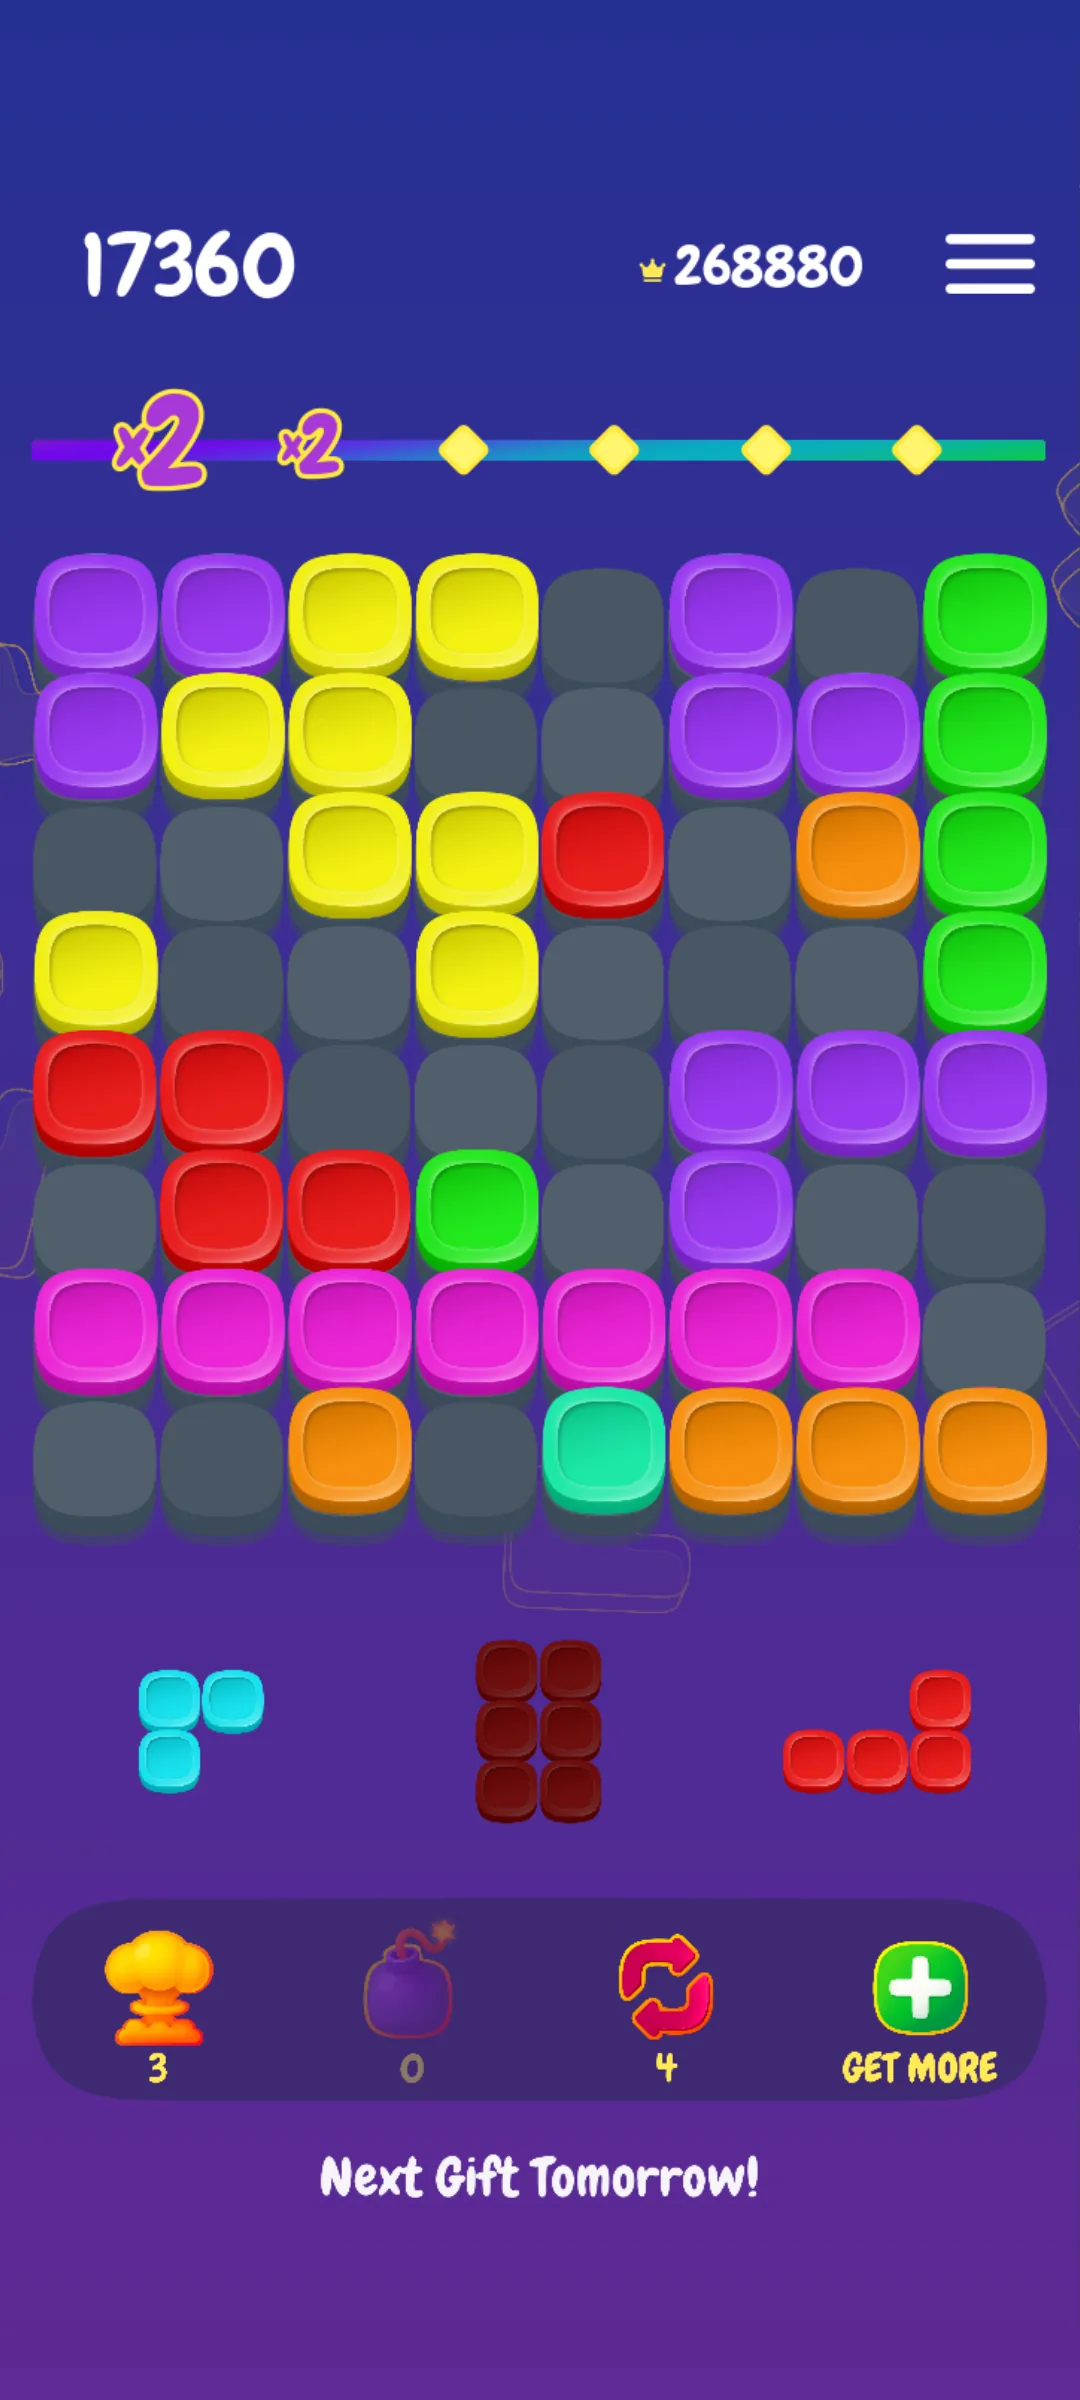
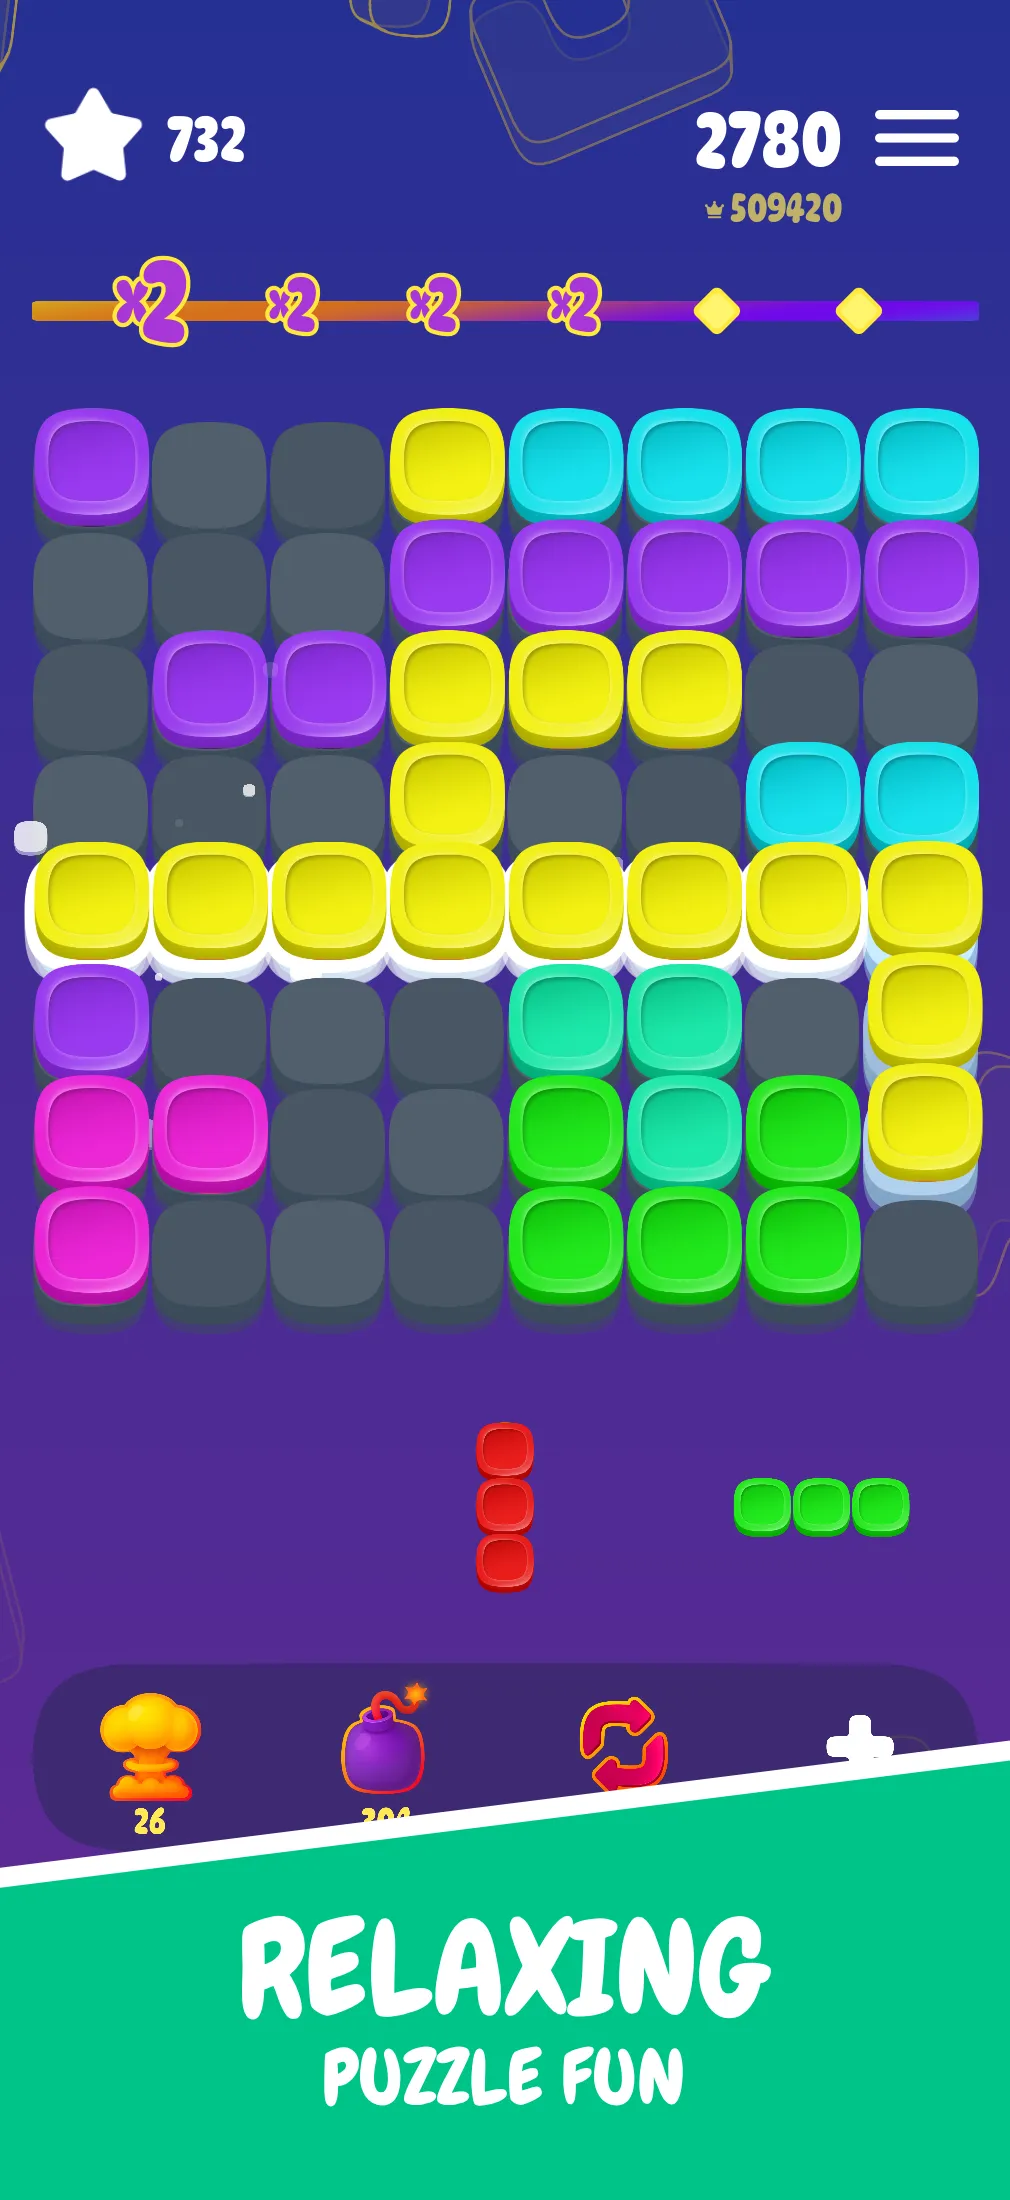
Add app-ads.txt, update gameplay screenshots, and add Google Play Store badge

diff --git a/privacy.html b/privacy.html
@@ -167,10 +167,11 @@
 
     <section id="ads">
       <h2>6. Advertising and analytics</h2>
-      <p>The Game may display advertising provided by third-party advertising partners,
-      including Google AdMob. To deliver, cap, measure and (where permitted) personalise
-      ads, these partners may access a device advertising identifier and limited device
+      <p>The Game displays advertising provided by third-party advertising partners,
+      specifically Google AdMob. To deliver, cap, measure and (where permitted) personalise
+      ads, these partners access a device advertising identifier (such as the Google Advertising ID / AD_ID on Android and IDFA on iOS) and limited device
       information.</p>
+      <p>To comply with global privacy regulations such as the GDPR and CCPA, the Game integrates Google's <strong>User Messaging Platform (UMP)</strong>. When you launch the Game for the first time, you will be presented with a consent form where you can choose whether to allow personalized ads, non-personalized ads, or manage your individual privacy preferences. You can change your consent choices at any time in your device settings.</p>
       <h3>Your ad choices</h3>
       <ul>
         <li><strong>Apple (App Tracking Transparency).</strong> On iOS, we will ask for

diff --git a/index.html b/index.html
@@ -24,8 +24,10 @@
       <div class="app-meta">
         <h1>Super Block Blast</h1>
         <div class="dev">Noodle Powered</div>
-        <div class="sub">Puzzle &middot; In-app purchases</div>
-        <a class="install" href="#" aria-disabled="true">Coming soon</a>
+        <div class="sub">Puzzle &middot; Contains ads &middot; In-app purchases</div>
+        <a class="play-store-btn" href="https://play.google.com/store/apps/details?id=com.noodlepowered.superblockblast" target="_blank" rel="noopener">
+          <img class="play-store-badge" src="google-play-badge.svg" alt="Get it on Google Play" />
+        </a>
       </div>
     </div>
   </header>
@@ -37,6 +39,8 @@
         <img src="shot2.webp" alt="Super Block Blast gameplay" loading="lazy" />
         <img src="shot3.webp" alt="Super Block Blast gameplay" loading="lazy" />
         <img src="shot4.webp" alt="Super Block Blast gameplay" loading="lazy" />
+        <img src="shot5.webp" alt="Super Block Blast gameplay" loading="lazy" />
+        <img src="shot6.webp" alt="Super Block Blast gameplay" loading="lazy" />
       </div>
     </section>
 

diff --git a/style.css b/style.css
@@ -85,6 +85,21 @@ a:hover { text-decoration: underline; }
 .install:hover { text-decoration: none; filter: brightness(1.07); }
 .install[aria-disabled="true"] { opacity: 0.65; cursor: default; }
 
+.play-store-btn {
+  display: inline-block;
+  margin-top: 14px;
+  transition: transform 0.15s ease, filter 0.15s ease;
+}
+.play-store-btn:hover {
+  transform: scale(1.03);
+  filter: brightness(1.1);
+}
+.play-store-badge {
+  height: 52px;
+  width: auto;
+  display: block;
+}
+
 /* ---------- WHITE CONTENT ---------- */
 
 .content {
